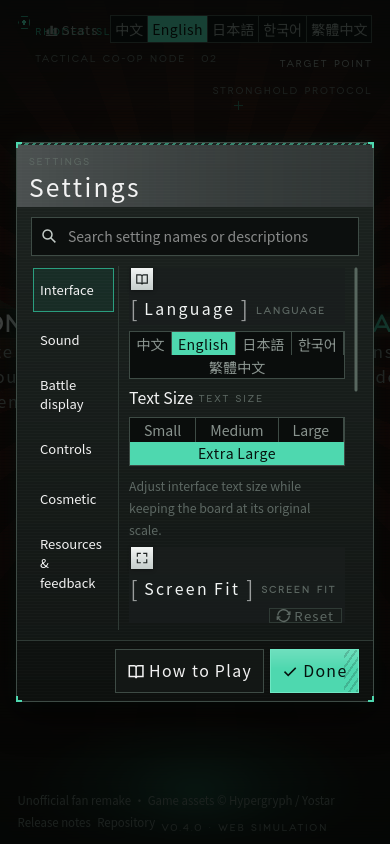
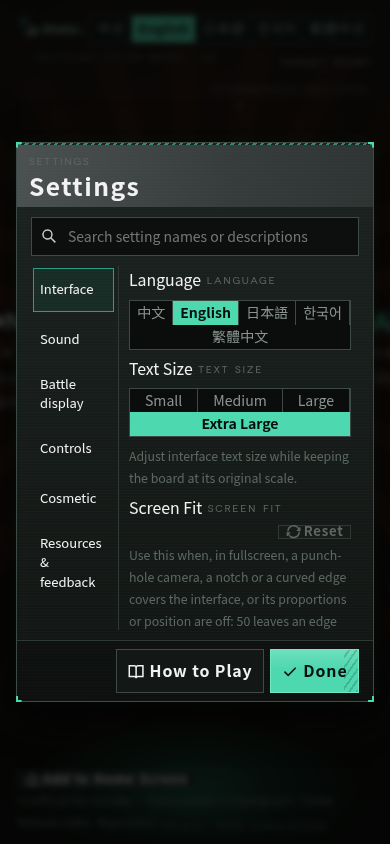
Refresh settings review screenshots after caption polish

diff --git a/README.md b/README.md
@@ -1,9 +1,9 @@
 # Settings categories and search — 2026-11-19
 
-Baseline: upstream dev c2b4ca01089dd753d3caeca5b6693ba8074e2505. Candidate: b93a7cd3237f26f74a7bba94aa0b3e0d86c5a591.
+Baseline: upstream dev c2b4ca01089dd753d3caeca5b6693ba8074e2505. Candidate: 1c3c2846e74f4c33f9550a33eb5e67c9ee46a1e2.
 
 The screenshots use the real SettingsModal from the title screen, local fonts/assets and isolated Chrome/Firefox profiles. Google Fonts CSS is replaced with an empty response for repeatable offline rendering. The before/after desktop pair is 1440×900; short audio is 844×390; portrait is 390×844 with extra-large English text. All six categories were captured locally in both browsers. Four viewport sizes were checked for layout overflow.
 
 The browser regression edits the real cross-category result control, checks persistence after reload, exercises tabs/shortcut capture, retains a diagnostic report, and imports a generated color-only theme ZIP. File.arrayBuffer for that fixture is held until the page has navigated to another category, then released; the real import and live search index complete afterwards. Reopening settings starts at Interface with an empty query. Both final browser runs have no page/console errors or HTTP failures.
 
-The targeted CPU/documentation run passed 101 checks and skipped one optional installed-theme fixture. Types, modified-file lint and all four translation packs passed. Import checking reports three existing nodeData Node imports. Additional completed entry/storage/modal checks and legacy run limits are recorded in receipt.json. In the legacy game-mock environment, both baseline and candidate request the same missing bond_level_3.png; the theme suite separately timed out during initial navigation. The broader 3D screen-fit run was interrupted at its canvas prerequisite. Original logs are retained under .state/settings-pr-20261119. Full local simulation/golden remain paused.
+The initial targeted CPU/documentation run passed 101 checks and skipped one optional installed-theme fixture. After local polish, 50 targeted settings/theme/screen-fit/documentation checks passed; types and modified-file lint passed again. All section captions use the ordinary regular-weight setting label, and language uses the normal label/control row. Six-category browser checks compare label weights and font sizes and reject result-screen caption decorations. The screenshots and final browser receipts above reflect this polished candidate. Types, modified-file lint and all four translation packs passed. Import checking reports three existing nodeData Node imports. Additional completed entry/storage/modal checks and legacy run limits are recorded in receipt.json. In the legacy game-mock environment, both baseline and candidate request the same missing bond_level_3.png; the theme suite separately timed out during initial navigation. The broader 3D screen-fit run was interrupted at its canvas prerequisite. Original logs are retained under .state/settings-pr-20261119. Full local simulation/golden remain paused.
